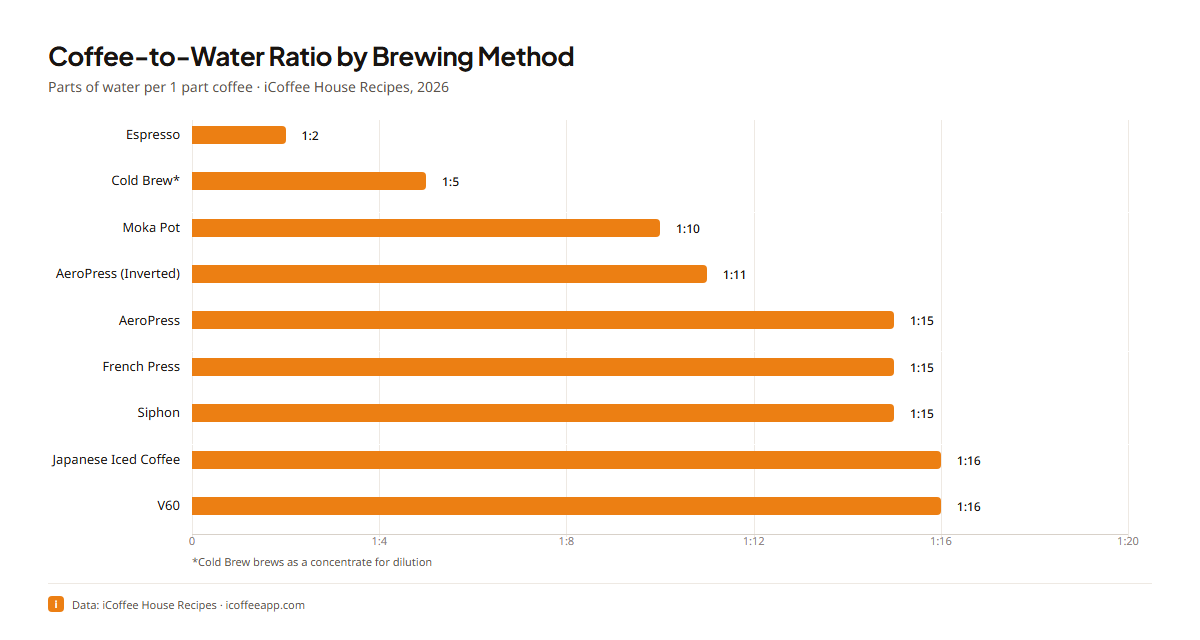
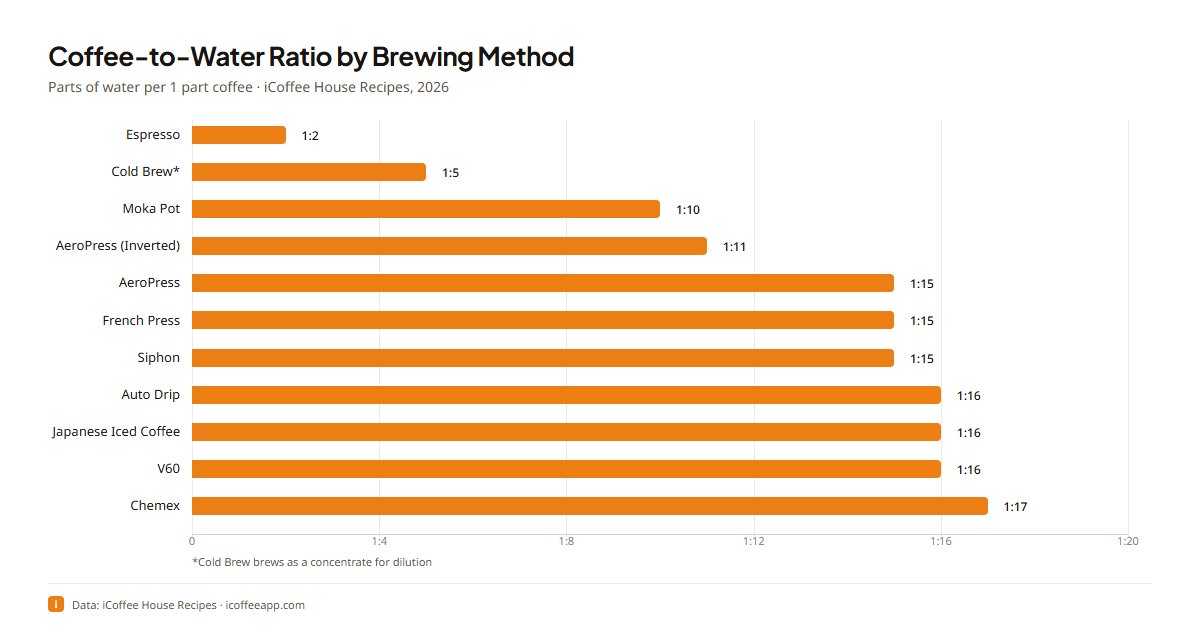
Refresh brewing dataset with Chemex and Auto Drip

Changed region(s): [[0.0308, 0.5312, 0.8633, 0.8125], [0.0308, 0.25, 0.7708, 0.5312], [0.0925, 0.7812, 0.1542, 0.8125]]

diff --git a/index.html b/index.html
@@ -196,14 +196,14 @@
       temperature, dose, and brew water for every brewing method we publish, as
       machine-readable data files and charts in five languages.
     </p>
-    <p id="method-list-sentence">The methods covered: Espresso, Cold Brew, Moka Pot, AeroPress (Inverted), AeroPress, French Press, Siphon, Japanese Iced Coffee, and V60.</p>
+    <p id="method-list-sentence">The methods covered: Espresso, Cold Brew, Moka Pot, AeroPress (Inverted), AeroPress, French Press, Siphon, Auto Drip, Japanese Iced Coffee, V60, and Chemex.</p>
     <p>
       The full write-up with context and sources lives on the iCoffee coffee statistics page:
       <a href="https://icoffeeapp.com/en/learn/coffee-statistics">icoffeeapp.com/en/learn/coffee-statistics</a>.
     </p>
 
     <h2>Brewing parameters at a glance</h2>
-    <p class="freshness" id="data-freshness">Data exported 23 Jul 2026 · 9 recipes</p>
+    <p class="freshness" id="data-freshness">Data exported 10 Oct 2026 · 11 recipes</p>
     <p>The full dataset, from the current published recipes:</p>
     <noscript>
       <p>

diff --git a/README.md b/README.md
@@ -5,7 +5,7 @@ Brewing parameters and data graphics from the published
 temperature, dose, and brew water for every brewing method we publish, as
 machine-readable data files and charts in five languages. The methods covered
 today: espresso, moka pot, V60, AeroPress (standard and inverted), French
-press, siphon, cold brew, and Japanese iced coffee.
+press, siphon, cold brew, Japanese iced coffee, Auto Drip, and Chemex.
 
 All values are the parameters we actually publish and maintain in our recipes,
 not aggregated third-party figures. The full write-up with context and sources
@@ -38,8 +38,10 @@ The full dataset, from the current published recipes:
 | AeroPress | 1:15 | 85 | 15 | 225 |
 | French Press | 1:15 | 94 | 30 | 450 |
 | Siphon | 1:15 | 92 | 17 | 255 |
+| Auto Drip | 1:16 | 92 | 60 | 960 |
 | Japanese Iced Coffee | 1:16 | 96 | 30 | 300 |
 | V60 | 1:16 | 96 | 18 | 288 |
+| Chemex | 1:17 | 93 | 30 | 510 |
 
 The CSV/JSON files carry the same rows with stable recipe ids and the
 localized method names.

diff --git a/SOURCE.md b/SOURCE.md
@@ -5,10 +5,10 @@ corpus on [icoffeeapp.com](https://icoffeeapp.com).
 
 | Field | Value |
 |---|---|
[1 lines of base64/hex data omitted]
-| Charts generated at | 2026-07-22T15:44:21.545Z |
-| Export run | 2026-07-23T18:40:01.710Z |
-| House recipes | 9 |
[1 lines of base64/hex data omitted]
+| Charts generated at | 2026-09-28T21:32:49.008Z |
+| Export run | 2026-10-10T11:47:35.931Z |
+| House recipes | 11 |
 | Pipeline | `scripts/export-backlink-repo.mjs` |
 | Stats page | https://icoffeeapp.com/en/learn/coffee-statistics |
 
